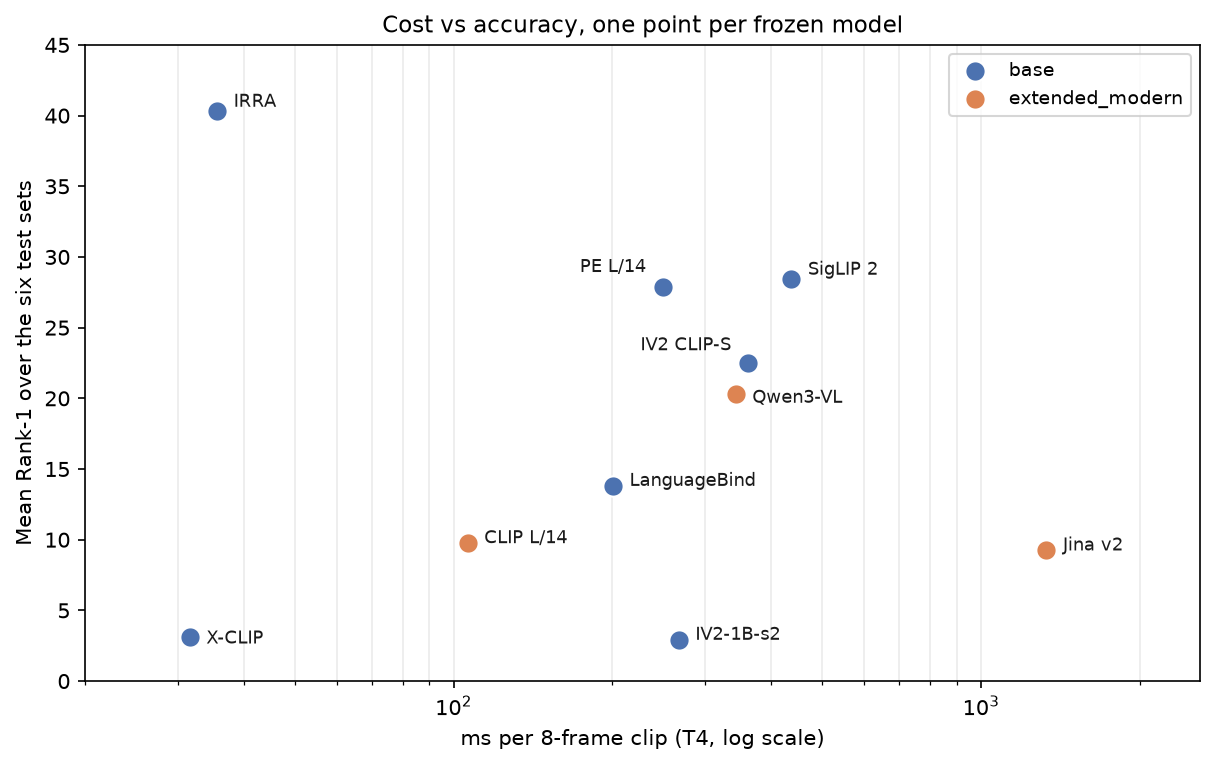
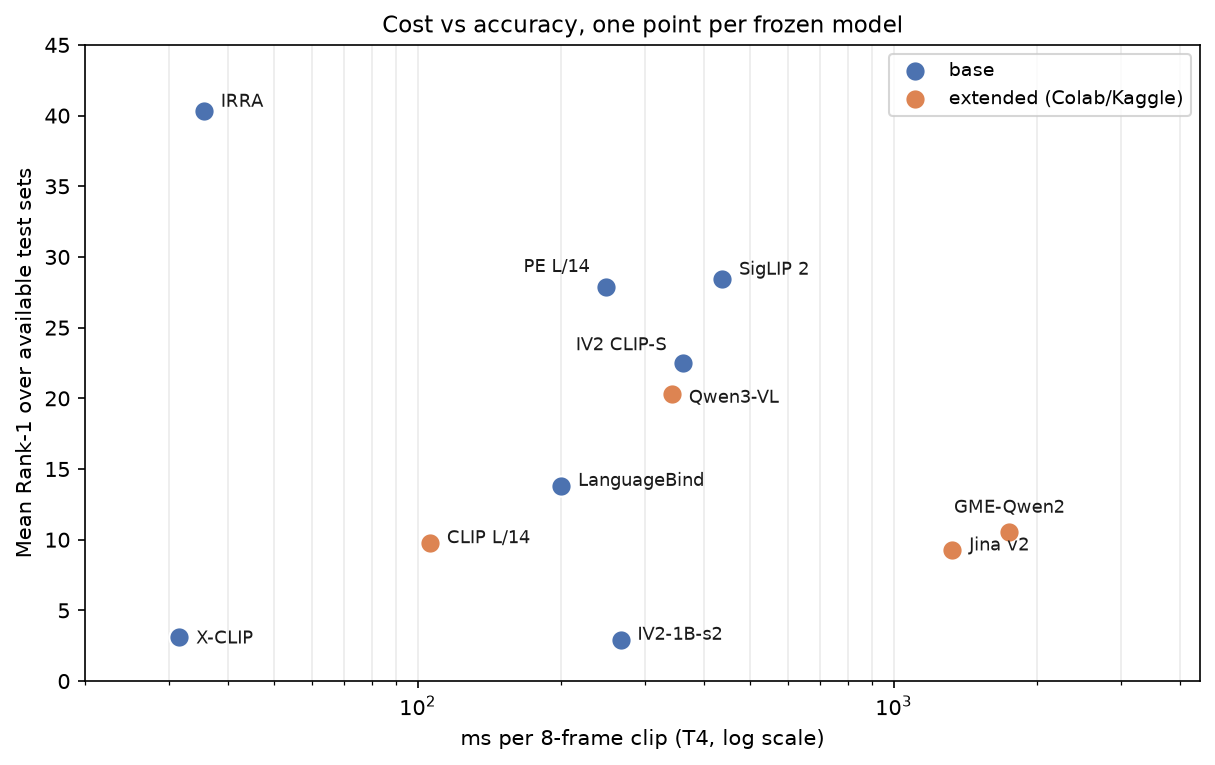
docs(readme): integrate GME-Qwen2-VL-2B results into unified benchmark tables

diff --git a/scripts/make_figures.py b/scripts/make_figures.py
@@ -26,6 +26,7 @@ plt.rcParams.update({"figure.dpi": 150, "savefig.dpi": 150, "font.size": 10})
 
 # Best-setting Rank-1 per test set, ordered by the 6-set mean (action excluded).
 # Columns: PRID, iLIDS, Duke, RSTPReid, GroOT appearance, GroOT action, GroOT combined.
+# GME-Qwen2-VL-2B (dagger) ran on TVPReid only; missing sets are NaN.
 RANK1 = {
     "IRRA": [66.55, 30.00, 38.06, 53.30, 24.71, 2.20, 29.36],
     "SigLIP 2 So400m": [35.56, 18.67, 21.97, 41.00, 25.58, 2.20, 27.91],
@@ -33,12 +34,13 @@ RANK1 = {
     "InternVideo2 CLIP-S": [32.39, 13.33, 18.49, 27.00, 19.19, 2.64, 24.71],
     "Qwen3-VL-Embedding-2B *": [24.65, 11.33, 13.18, 30.05, 20.06, 3.52, 22.38],
     "LanguageBind": [16.20, 12.67, 7.30, 15.55, 14.83, 2.20, 16.28],
+    "GME-Qwen2-VL-2B \u2020": [11.62, 10.67, 9.45, np.nan, np.nan, np.nan, np.nan],
     "OpenAI CLIP L/14 *": [10.92, 9.33, 5.14, 11.05, 11.92, 1.76, 10.17],
     "Jina CLIP v2 *": [7.75, 11.33, 4.15, 12.15, 11.92, 1.32, 8.14],
     "X-CLIP": [4.93, 5.33, 1.41, 1.40, 2.62, 0.44, 2.91],
     "InternVideo2-1B-s2": [4.23, 4.00, 1.82, 5.15, 0.87, 0.66, 1.45],
 }
-EXTENDED = {name for name in RANK1 if name.endswith("*")}
+EXTENDED = {name for name in RANK1 if name.endswith("*") or name.endswith("\u2020")}
 COLUMNS = ["PRID", "iLIDS", "Duke", "RSTPReid", "GroOT\nappearance", "GroOT\naction", "GroOT\ncombined"]
 MS_PER_CLIP = {
     "IRRA": 35.60,
@@ -47,6 +49,7 @@ MS_PER_CLIP = {
     "InternVideo2 CLIP-S": 361.04,
     "Qwen3-VL-Embedding-2B *": 342.51,
     "LanguageBind": 200.43,
+    "GME-Qwen2-VL-2B \u2020": 1749.55,
     "OpenAI CLIP L/14 *": 106.27,
     "Jina CLIP v2 *": 1328.85,
     "X-CLIP": 31.59,
@@ -55,29 +58,33 @@ MS_PER_CLIP = {
 
 
 def mean_six(name: str) -> float:
-    values = RANK1[name]
-    return (values[0] + values[1] + values[2] + values[3] + values[4] + values[6]) / 6.0
+    values = [v for v in RANK1[name][:5] + [RANK1[name][6]] if not np.isnan(v)]
+    return float(np.mean(values))
 
 
 def heatmap() -> None:
     names = sorted(RANK1, key=mean_six, reverse=True)
-    matrix = np.array([RANK1[name] for name in names])
+    matrix = np.ma.masked_invalid(np.array([RANK1[name] for name in names]))
+    cmap = matplotlib.colormaps["YlGnBu"].copy()
+    cmap.set_bad("#e6e6e6")
     fig, ax = plt.subplots(figsize=(9.8, 5.4))
-    image = ax.imshow(matrix, cmap="YlGnBu", aspect="auto", vmin=0, vmax=70)
+    image = ax.imshow(matrix, cmap=cmap, aspect="auto", vmin=0, vmax=70)
     ax.set_xticks(range(len(COLUMNS)))
     ax.set_xticklabels(COLUMNS, fontsize=9)
     ax.set_yticks(range(len(names)))
     ax.set_yticklabels(names, fontsize=9)
-    for i in range(matrix.shape[0]):
-        for j in range(matrix.shape[1]):
-            value = matrix[i, j]
-            ax.text(
-                j, i, f"{value:.2f}", ha="center", va="center", fontsize=7.5,
-                color="white" if value > 32 else "#1a1a1a",
-            )
+    for i, row in enumerate(matrix):
+        for j, value in enumerate(row):
+            if np.ma.is_masked(value):
+                ax.text(j, i, "\u2014", ha="center", va="center", fontsize=8, color="0.35")
+            else:
+                ax.text(
+                    j, i, f"{value:.2f}", ha="center", va="center", fontsize=7.5,
+                    color="white" if value > 32 else "#1a1a1a",
+                )
     for x in (2.5, 3.5):
         ax.axvline(x, color="0.25", lw=1.4)
-    ax.set_title("Zero-shot text-to-tracklet Rank-1, best setting per model (Kaggle T4)", fontsize=11)
+    ax.set_title("Zero-shot text-to-tracklet Rank-1, best setting per model (Kaggle / Colab T4)", fontsize=11)
     fig.colorbar(image, ax=ax, label="Rank-1 (%)", shrink=0.85)
     fig.tight_layout()
     fig.savefig(ASSETS / "rank1_heatmap.png", bbox_inches="tight")
@@ -85,7 +92,7 @@ def heatmap() -> None:
 
 
 def groot_bars() -> None:
-    order = sorted(RANK1, key=lambda n: RANK1[n][6], reverse=True)
+    order = sorted((n for n in RANK1 if not np.isnan(RANK1[n][6])), key=lambda n: RANK1[n][6], reverse=True)
     appearance = [RANK1[n][4] for n in order]
     action = [RANK1[n][5] for n in order]
     combined = [RANK1[n][6] for n in order]
@@ -112,8 +119,10 @@ def groot_bars() -> None:
 
 def speed_scatter() -> None:
     fig, ax = plt.subplots(figsize=(8.2, 5.2))
-    for is_extended, color, label in ((False, "#4C72B0", "base"), (True, "#DD8452", "extended_modern")):
-        names = [n for n in RANK1 if (n in EXTENDED) == is_extended]
+    for label, color, names in (
+        ("base", "#4C72B0", [n for n in RANK1 if n not in EXTENDED]),
+        ("extended (Colab/Kaggle)", "#DD8452", [n for n in RANK1 if n in EXTENDED]),
+    ):
         ax.scatter(
             [MS_PER_CLIP[n] for n in names], [mean_six(n) for n in names],
             s=95, color=color, label=label, edgecolor="white", zorder=3,
@@ -122,7 +131,7 @@ def speed_scatter() -> None:
         "IRRA": "IRRA", "SigLIP 2 So400m": "SigLIP 2", "Perception Encoder L/14": "PE L/14",
         "InternVideo2 CLIP-S": "IV2 CLIP-S", "Qwen3-VL-Embedding-2B *": "Qwen3-VL",
         "LanguageBind": "LanguageBind", "OpenAI CLIP L/14 *": "CLIP L/14", "Jina CLIP v2 *": "Jina v2",
-        "X-CLIP": "X-CLIP", "InternVideo2-1B-s2": "IV2-1B-s2",
+        "GME-Qwen2-VL-2B \u2020": "GME-Qwen2", "X-CLIP": "X-CLIP", "InternVideo2-1B-s2": "IV2-1B-s2",
     }
     # (dx, dy, ha) offsets keep the labels off each other.
     offsets = {
@@ -130,6 +139,7 @@ def speed_scatter() -> None:
         "SigLIP 2 So400m": (8, 2, "left"), "Perception Encoder L/14": (-8, 7, "right"),
         "InternVideo2 CLIP-S": (-8, 6, "right"), "Qwen3-VL-Embedding-2B *": (8, -4, "left"),
         "LanguageBind": (8, 0, "left"), "OpenAI CLIP L/14 *": (8, 0, "left"), "Jina CLIP v2 *": (8, 0, "left"),
+        "GME-Qwen2-VL-2B \u2020": (0, 9, "center"),
     }
     for name in RANK1:
         dx, dy, ha = offsets[name]
@@ -138,10 +148,10 @@ def speed_scatter() -> None:
             xytext=(dx, dy), textcoords="offset points", ha=ha, fontsize=8.5, color="0.1",
         )
     ax.set_xscale("log")
-    ax.set_xlim(20, 2600)
+    ax.set_xlim(20, 4400)
     ax.set_ylim(0, 45)
     ax.set_xlabel("ms per 8-frame clip (T4, log scale)")
-    ax.set_ylabel("Mean Rank-1 over the six test sets")
+    ax.set_ylabel("Mean Rank-1 over available test sets")
     ax.set_title("Cost vs accuracy, one point per frozen model", fontsize=11)
     ax.grid(True, which="both", axis="x", alpha=0.25)
     ax.legend(loc="upper right", fontsize=9)

diff --git a/README.md b/README.md
@@ -20,13 +20,13 @@ Tracklet  ──► VLM video encoder ──► video vector
 
 ## Results — frozen models, no training
 
-All models are tested as-is on the test splits. Each text description queries the gallery, and a hit counts when the returned tracklet shows the same person. Numbers below are Rank-1 for each model's best temporal setting — how the 8-frame clips are sampled and averaged matters a little, but it never changes the ranking. Ten models ran on a Kaggle T4 across two environment groups: `base` (IRRA, SigLIP 2, Perception Encoder, InternVideo2 CLIP-S, InternVideo2-1B-s2, X-CLIP, LanguageBind) and `extended_modern` (OpenAI CLIP L/14, Jina CLIP v2, Qwen3-VL-Embedding-2B).
+All models are tested as-is on the test splits. Each text description queries the gallery, and a hit counts when the returned tracklet shows the same person. Numbers below are Rank-1 for each model's best temporal setting — how the 8-frame clips are sampled and averaged matters a little, but it never changes the ranking. Eleven models ran on a Kaggle/Colab T4 across three environment groups: `base` (IRRA, SigLIP 2, Perception Encoder, InternVideo2 CLIP-S, InternVideo2-1B-s2, X-CLIP, LanguageBind), `extended_modern` (OpenAI CLIP L/14, Jina CLIP v2, Qwen3-VL-Embedding-2B), and `extended_gme` (GME-Qwen2-VL-2B, TVPReid only — it needs its own `transformers` version, so it has not been run on RSTPReid or GroOT yet; see the [checkpoint section](#extended-zero-shot-checkpoint--all-156-configurations) below).
 
 ![Rank-1 on every test set](assets/rank1_heatmap.png)
 
 ### TVPReid: describing a person finds their tracklet
 
-PRID is the easiest set, iLIDS the hardest (only 75 galleries, cluttered airport halls), Duke the largest (603 tracklets). IRRA wins everywhere by a wide margin because it was designed for text-to-person retrieval. Among general vision-language models, Perception Encoder is strongest on PRID while SigLIP 2 holds up best on Duke. Pure video models — X-CLIP, LanguageBind, InternVideo2 — lag far behind on this task. The `extended_modern` trio lands mid-pack: Qwen3-VL-Embedding beats LanguageBind on PRID and Duke, while OpenAI CLIP L/14 and Jina CLIP v2 barely clear single digits.
+PRID is the easiest set, iLIDS the hardest (only 75 galleries, cluttered airport halls), Duke the largest (603 tracklets). IRRA wins everywhere by a wide margin because it was designed for text-to-person retrieval. Among general vision-language models, Perception Encoder is strongest on PRID while SigLIP 2 holds up best on Duke. Pure video models — X-CLIP, LanguageBind, InternVideo2 — lag far behind on this task. The `extended` models land mid-pack: Qwen3-VL-Embedding beats LanguageBind on PRID and Duke, GME-Qwen2-VL beats it on Duke, while OpenAI CLIP L/14 and Jina CLIP v2 sit at or below ten points everywhere.
 
 | Model | PRID | iLIDS | Duke |
 |---|---:|---:|---:|
@@ -36,6 +36,7 @@ PRID is the easiest set, iLIDS the hardest (only 75 galleries, cluttered airport
 | InternVideo2 CLIP-S | 32.39 / 43.77 | 13.33 / 24.14 | 18.49 / 28.36 |
 | Qwen3-VL-Embedding-2B | 24.65 / 36.99 | 11.33 / 21.37 | 13.18 / 22.73 |
 | LanguageBind | 16.20 / 24.82 | 12.67 / 22.09 | 7.30 / 14.46 |
+| GME-Qwen2-VL-2B | 11.62 / 22.96 | 10.67 / 20.14 | 9.45 / 17.70 |
 | OpenAI CLIP L/14 | 10.92 / 20.05 | 9.33 / 17.48 | 5.14 / 10.10 |
 | Jina CLIP v2 | 7.75 / 14.41 | 11.33 / 19.47 | 4.15 / 9.80 |
 | X-CLIP | 4.93 / 10.05 | 5.33 / 10.52 | 1.41 / 3.95 |
@@ -45,7 +46,7 @@ Each cell is **Rank-1 / mAP**. Median rank, Rank-5/10/20/50, nDCG@10, and every 
 
 IRRA is also the cheapest of the accurate models at ~34 ms per clip and 0.31 GB on a T4. Perception Encoder (~249 ms, 1.32 GB) and SigLIP 2 (~437 ms, 2.23 GB) cost 7–12× more compute and still trail by ~28 points on PRID. X-CLIP is equally fast but not competitive on accuracy. In practice: a single 8-frame clip is enough on PRID, while Duke benefits from scoring several sliding windows and keeping the best-matching one.
 
-The three `extended_modern` models are no faster despite being newer: OpenAI CLIP L/14 is the cheapest at ~106 ms, Qwen3-VL-Embedding-2B sits at ~343 ms (2.1 GB), and Jina CLIP v2 is by far the most expensive at ~1,329 ms per clip — its 44-layer tower plus Matryoshka 1024-d truncation costs 4–40× more than every other model here. None of them beats the task-tuned baselines anywhere.
+The `extended` models are no faster despite being newer: OpenAI CLIP L/14 is the cheapest at ~106 ms, Qwen3-VL-Embedding-2B sits at ~343 ms (2.1 GB), Jina CLIP v2 at ~1,329 ms, and GME-Qwen2-VL-2B is the slowest and heaviest of all at ~1,750 ms per clip and 4.2–8.3 GB. GME is the second-strongest extended model — it beats OpenAI CLIP and Jina on PRID and Duke — but it needs ~5× Qwen3's compute to get there. None of the extended models beats the task-tuned baselines anywhere.
 
 ![Cost vs accuracy](assets/speed_accuracy.png)
 
@@ -87,7 +88,7 @@ Adding appearance back fixes it: the combined sentence beats appearance alone by
 | X-CLIP | 2.62 | 0.44 | 2.91 |
 | InternVideo2-1B-s2 | 0.87 | 0.66 | 1.45 |
 
-Takeaway: current frozen models match clothing well, ignore generic motion, and do best when the query mentions both. Qwen3-VL-Embedding is a partial exception on motion: its 3.52 on action is the best of all ten models, hinting that video-native pretraining helps even where captions are ambiguous. The `combined` queries were built by rule-merging each track's two captions, then hand-checking all 344 for grammar and two gender conflicts (no new attributes added). See [`shawaf_vlm/data/groot_mot17_combined.json`](shawaf_vlm/data/groot_mot17_combined.json).
+Takeaway: current frozen models match clothing well, ignore generic motion, and do best when the query mentions both. Qwen3-VL-Embedding is a partial exception on motion: its 3.52 on action is the best of the ten models that ran GroOT, hinting that video-native pretraining helps even where captions are ambiguous. The `combined` queries were built by rule-merging each track's two captions, then hand-checking all 344 for grammar and two gender conflicts (no new attributes added). See [`shawaf_vlm/data/groot_mot17_combined.json`](shawaf_vlm/data/groot_mot17_combined.json).
 
 Full per-protocol numbers, Rank-5/10/20/50, nDCG, and timing breakdowns are in [`notebooks/kaggle-zero-shot.ipynb`](notebooks/kaggle-zero-shot.ipynb).
 
@@ -177,20 +178,16 @@ operate on its clip embeddings.
 
 Related: [CLIP4Clip](https://arxiv.org/abs/2104.08860), [X-Pool](https://arxiv.org/abs/2203.15086), [TVPR](https://arxiv.org/abs/2307.07184).
 
-## Extended Zero-Shot Text-to-Tracklet Benchmark
+## Extended zero-shot checkpoint — all 156 configurations
 
-This checkpoint evaluates four frozen encoders on zero-shot text-to-tracklet
-retrieval with no Re-ID fusion and no fine-tuning. It contains 156 completed
-results: 4 models × 3 datasets × 13 configurations. The datasets are PRID,
-iLIDS, and Duke.
+The headline tables above keep one number per model and dataset. This section is the frozen record behind the extended models: **156 completed runs** — 4 models (OpenAI CLIP ViT-L/14, Jina CLIP v2, GME-Qwen2-VL-2B, Qwen3-VL-Embedding-2B) × 3 TVPReid subsets (PRID, iLIDS, Duke) × 13 configurations, with no Re-ID fusion and no fine-tuning. The best rows below match the TVPReid columns above; the multi-dataset Kaggle runs reproduce them within ±0.02 mAP.
 
-Each model/dataset pair includes `uniform8` plus the `vt_1fps_n12`,
+Each model/dataset pair covers `uniform8` plus the `vt_1fps_n12`,
 `vt_2fps_n32`, and `reid_8fps_n64` protocols with the applicable `mean`,
 `mean_s8`, `max`, and `query_max` pools. Here, `query_max` is the repository's
 pooling strategy used for this benchmark; it is not an implementation of
 official X-Pool.
 
-The table reports the best observed configuration for each model/dataset pair.
 Rows are selected by highest Rank-1, then mAP, then nDCG@10, with CSV order as
 the final deterministic tie-breaker. Every value in a table row comes from the
 same result row.
@@ -210,10 +207,9 @@ same result row.
 | Qwen3-VL-Embedding-2B | iLIDS | 11.33 | 21.37 | 24.02 | `reid_8fps_n64` | `mean_s8` | 329.77 | 4.07 |
 | Qwen3-VL-Embedding-2B | Duke | 13.18 | 22.72 | 26.11 | `reid_8fps_n64` | `query_max` | 335.74 | 4.07 |
 
-The frozen checkpoint with all configurations and unrounded metrics is
+The full checkpoint with all configurations and unrounded metrics is
 [`results/checkpoints/extended_zero_shot_4models_3datasets_v1.csv`](results/checkpoints/extended_zero_shot_4models_3datasets_v1.csv).
-
-Reproduction uses two dependency profiles:
+It was produced with the Colab notebook below, in two dependency profiles:
 
 - **MODERN:** OpenAI CLIP ViT-L/14, Jina CLIP v2, and
   Qwen3-VL-Embedding-2B with Transformers 4.57.3.
